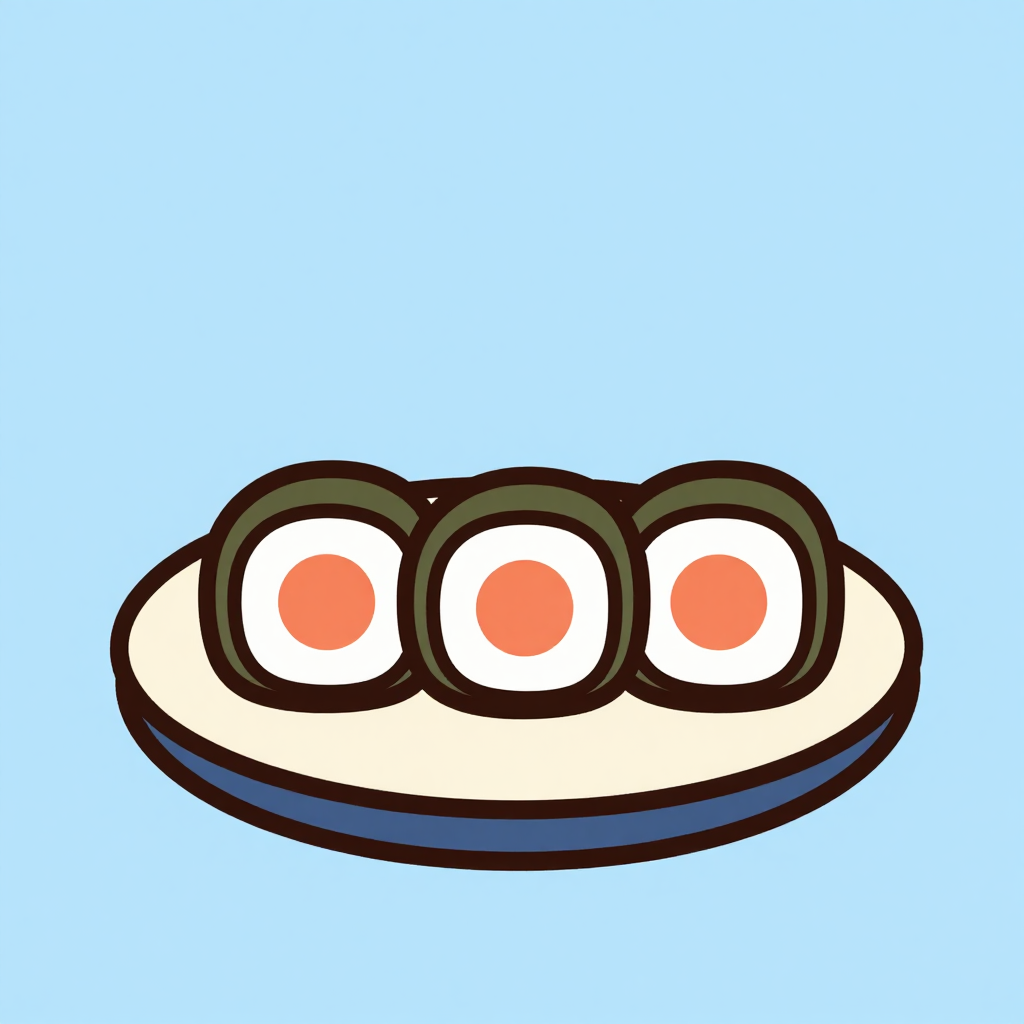
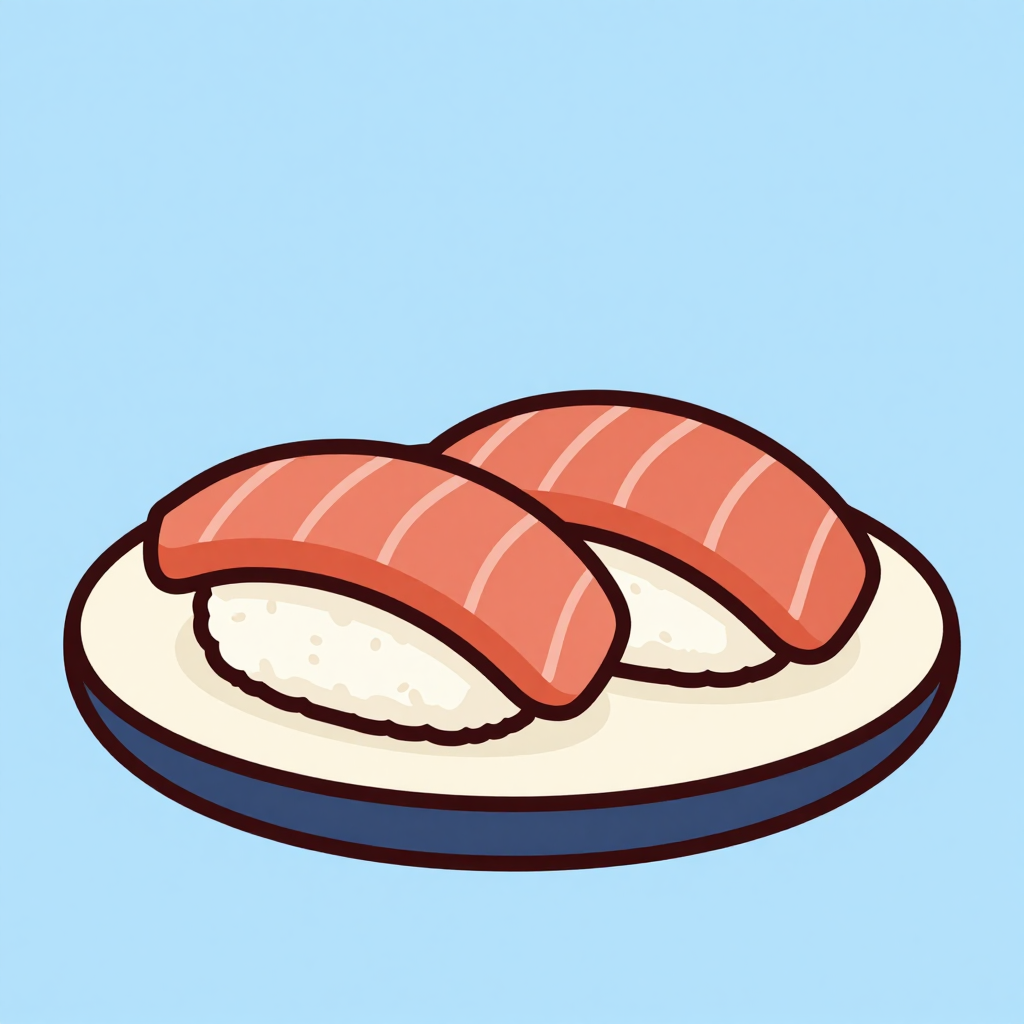
스시집 장면 그림을 참치 니기리 두 점(thumb-sushi-nigiri_303)으로 바꿈
- 후보 8장(두 점 301~304, 한 점 301~304) 모두 S6(참치 흰 줄)에 걸렸고,
  사용자가 직접 보고 303을 골랐다(2026-11-19). S6·S4는 이 그림에 한해 면제.
- source/thumb-sushi.png·json 교체, SceneThumb-sushi와 map_building_sushi 다시 내보냄.
- brief.md 5.2에 판정 결과와 후보별 판정 표, 5번 표, 변경 기록.

Changed region(s): [[0.0625, 0.375, 0.9375, 0.8438]]

diff --git a/docs/design/scene-art/brief.md b/docs/design/scene-art/brief.md
@@ -3,6 +3,7 @@
 앱 화면에서 장면 그림이 들어갈 자리, 각 그림의 규격과 이미지 생성 요청서, 후보를 고르는 기준을 모은 문서다. 리워드 아이템 16개(모자·두건·손·배경)는 보상 브랜치의 `item-art/brief.md` 몫이라 여기서 다루지 않는다.
 
 - 개정일: 2026-11-14. 흐름 개편안 B(PLAN.md 4번)의 새 8장면 기준으로 고쳤다. 이미 생성한 후보 가운데 다시 쓸 것과 새로 만들 2장(스시집, 소바·우동집)을 정했다
+- 2026-11-19: 스시집 그림을 니기리로 바꿔 다시 생성한다(5.2)
 
 | 파일 | 내용 |
 |---|---|
@@ -132,7 +133,7 @@
 {STYLE} {PALETTE} Subject: {대상} {OBJECT} {BACKGROUND}
 ```
 
-STYLE, PALETTE, OBJECT는 모든 그림에 한 글자도 바꾸지 않는다. BACKGROUND는 `{칸색}`만 바꾼다. 여러 장의 모양이 맞는 것은 이 고정에서 나온다.
+STYLE, PALETTE, OBJECT는 모든 그림에 한 글자도 바꾸지 않는다. BACKGROUND는 `{칸색}`만 바꾼다. 여러 장의 모양이 맞는 것은 이 고정에서 나온다. 예외는 `thumb-sushi` 하나로, PALETTE 자리에 PALETTE-SUSHI를 쓴다(5.2).
 
 **STYLE**
 
@@ -165,7 +166,7 @@ The background is one flat solid {칸색} color filling the entire square edge t
 | 순서 | 장면 id | 장면 | 파일 이름 | 대상 | 칸색 | 출처 | 할 일 |
 |---|---|---|---|---|---|---|---|
 | - | - | (대체 그림) | `thumb-placeholder` | 여행 가방 | SAND | 후보 `thumb-placeholder_301~304` | 고르기 |
-| 1 | `sushi` | 스시집 | `thumb-sushi` | 접시 위 호소마키 세 개 | SKY | **새로 생성** (5.2) | 생성 4장 → 고르기 |
+| 1 | `sushi` | 스시집 | `thumb-sushi` | 남색 테두리 접시 위 참치 니기리 두 점 (2026-11-19 호소마키에서 바꿈) | SKY | `thumb-sushi-nigiri_303` (2026-11-19 사용자 결정, 5.2 판정 결과) | 넣음 |
 | 2 | `tonkatsu` | 돈카츠집 | `thumb-tonkatsu` | 가츠동 | SAND | 후보 `thumb-eatery_sign_301~306` | 고르기 → 칸색 바꿔 칠하기(7.1) |
 | 3 | `soba` | 소바·우동집 | `thumb-soba` | 대발 위 자루소바와 장국 잔 | SKY | **새로 생성** (5.2) | 생성 4장 → 고르기 |
 | 4 | `station` | 역 | `thumb-station` | 정면 통근 전철 | SAND | 후보 `thumb-station_301~304` | 고르기 |
@@ -189,19 +190,91 @@ The background is one flat solid {칸색} color filling the entire square edge t
 | `thumb-onsen` | 7 온천 | `onsen` | `thumb-onsen` | SKY → SKY | |
 | `thumb-ryokan` | 8 료칸 | `ryokan` | `thumb-ryokan` | SAND → SAND | |
 | `thumb-placeholder` | 대체 그림 | (공통) | `thumb-placeholder` | SAND → SAND | |
-| (없음) | | `sushi` | `thumb-sushi` | SKY | 새로 생성 |
+| (없음) | | `sushi` | `thumb-sushi` | SKY | 새로 생성. 2026-11-19 니기리로 다시 생성(후보 이름 `thumb-sushi-nigiri`) |
 | (없음) | | `soba` | `thumb-soba` | SKY | 새로 생성 |
 
 ### 5.2 새로 만들 그림 2장
 
 대상을 고르는 기준(전과 같음): 그 장면의 단어에 나오는 물건이거나 장면을 가장 빨리 알아보게 하는 물건, 52pt에서 알아볼 것, 리워드 아이템과 겹치지 않을 것, 글자 없이도 뜻이 살 것. 이웃한 밥집 그림(가츠동 그릇)과 실루엣이 달라야 한다.
 
-**`thumb-sushi`** (1 스시집, 칸색 `pale sky blue`)
+**`thumb-sushi`** (1 스시집, 칸색 `pale sky blue`). 2026-11-19 호소마키에서 니기리로 바꿈(사용자 결정)
 
-- 대상: 둥근 접시(남색 테두리) 위에 세워 놓은 호소마키 세 개. 단면(김 고리, 흰 밥, 주황빨강 속)이 보이게.
-- 고른 이유: 리워드 손 아이템 `sushi`(초밥 한 점, 니기리)와 배경 아이템 `noren`(노렌이 걸린 가게 앞)을 피했다. 마키 단면은 니기리와 실루엣이 다르면서 52pt에서도 "초밥"으로 바로 읽힌다. 남색 테두리 접시는 회전초밥 접시를 떠올리게 해 메뉴 단계(회전초밥)와 이어진다. 가츠동(깊은 그릇, 김 줄기)과도 실루엣이 다르다(낮고 넓은 접시, 둥근 단면 셋).
-- 피한 것: 니기리(아이템과 겹침), 노렌(아이템과 겹침, 글자 자리), 회전 레일(물건이 둘이 되고 원근이 생김), 문어·오징어 그림(52pt에서 알아보기 어렵고 얼굴이 생기기 쉬움).
-- 안 될 때의 대체 대상: 같은 접시 위의 이쿠라 군함말이 두 개(김 띠 위에 주황 알). 문장은 아래 대상 문장의 rolls 부분만 바꾼다.
+쓰이는 크기: 홈 지도 건물 카드 96pt(지금 장면)와 72pt(잠김은 흑백, 완료는 원래 색). 완료 카드 양옆에 단어 스티커 `sushi`(게타 위 참치·달걀 니기리 두 점)와 `ika`(오징어 니기리 한 점)가 48pt로 붙는다(home-map.md 2.3). 옛 홈 행의 52pt에서도 읽혀야 한다.
+
+- 대상: 둥근 납작한 접시(흰 바탕, 굵은 남색 테두리) 위에 참치 니기리 두 점. 두 점은 똑같고, 둘 다 긴 쪽이 좌우로 놓여 왼쪽과 오른쪽에 나란히, 조금 떨어져 있다. 밥은 낮고 넓은 둥근 타원 덩이(흰색, 밥알 결 없음), 그 위에 주황빨강 참치 한 장이 밥보다 조금 길게 덮여 늘어진다. 참치 아래로 흰 밥이 띠처럼 분명히 보인다. 김 띠, 와사비, 생강, 간장 종지, 젓가락 없음. 보는 각도는 정면에서 살짝 위(접시가 납작한 타원으로 보이는 정도).
+- 개수를 두 점으로 한 이유: 한 접시 두 점은 회전초밥의 기본 모양이다. 셋이면 한 점이 작아져 72pt에서 밥 띠가 흐려지고, 하나면 접시가 비어 보여 "초밥 한 접시"보다 "알 수 없는 덩이"로 읽힐 수 있다(안 될 때의 대체 대상으로 둔다).
+- 네타를 참치로 한 이유: 붉은 생선 한 장 + 흰 밥이 초밥의 가장 흔한 그림이라 한국 사용자에게도 바로 "초밥"이다. 단색이라 줄무늬(연어), 꼬리(새우), 김 띠(달걀)가 필요 없어 작게 줄여도 모양이 무너지지 않는다. 연어는 흰 줄을 그리려다 선이 늘고, 줄이 없으면 참치와 구분되지 않는다.
+- 고른 이유: 호소마키 단면(김 고리 안의 흰 밥과 속)은 한국 사용자에게 김밥으로 읽혔다(사용자 의견, 2026-11-19). 니기리는 김밥과 모양이 겹치지 않는다. 옛 문서가 니기리를 피한 이유였던 리워드 손 아이템 `sushi`는 폐지됐다(item-art/items.json에 없음). 남색 테두리 접시는 회전초밥 접시로 메뉴 단계와 이어지고, 단어 스티커 `sushi`의 나무 게타와 받침이 달라 완료 카드 옆에 붙어도 같은 그림이 셋으로 보이지 않는다. 가츠동(깊은 그릇 + 김 줄기), 자루소바(네모 대발 + 잔), 야키토리(긴 네모 접시 + 꼬치)와 실루엣이 다르다(낮은 둥근 접시 위 둥근 덩이 둘).
+- 피한 것: 게타(단어 스티커 `sushi`와 같은 받침), 여러 종류 모둠(PALETTE 문제와 같이 색이 늘어 무지개가 된다), 군함말이(김 띠가 김밥을 다시 부른다), 노렌(아이템 `noren`과 겹침, 글자 자리), 회전 레일(물건이 둘이 되고 원근이 생김).
+
+**PALETTE 예외.** 이 그림만 4.2의 PALETTE 대신 아래 PALETTE-SUSHI를 쓴다. 공통 PALETTE는 색 이름 열 개를 늘어놓아, 같은 모양을 여러 개 그리는 대상에서는 점마다 다른 색(노랑 달걀, 분홍 네타, 올리브 덩이)을 칠하게 만든다. 단어 그림(`tools/gen_word_art.py`)과 리워드 아이템(`items.json`의 `palette`)에서 같은 문제가 기록돼 있다. 선 굵기와 화풍은 STYLE이 정하므로, STYLE·OBJECT·BACKGROUND는 그대로 두면 세트의 결이 유지된다.
+
+**PALETTE-SUSHI**
+
+```
+Colors: the object uses only warm off-white, soft orange red and dark indigo blue, plus the dark chocolate brown of the outlines. Both pieces have exactly the same colors. The orange red is warm, not crimson, not pink, not pure red.
+```
+
+**대상 문장**
+
+```
+Two pieces of tuna nigiri sushi on a small round flat plate, seen from the front and slightly above. The plate is warm off-white with a thick dark indigo rim. The two pieces sit next to each other, left and right, parallel and slightly apart, both lying lengthwise from left to right. Each piece is a low, wide, rounded oblong mound of plain smooth white rice with one flat slice of raw tuna in a single solid soft orange red draped over its top; the slice is a little longer than the rice, and a clear band of white rice shows below the slice along the whole piece. The two pieces are identical. The rest of the plate is empty, and nothing under the plate.
+```
+
+문장을 이렇게 쓴 이유(모델이 틀리기 쉬운 점):
+
+| 틀리기 쉬운 점 | 문장에서 막은 방법 |
+|---|---|
+| 네타가 밥을 다 덮어 흰 밥이 안 보인다 | "a clear band of white rice shows below the slice along the whole piece" |
+| 네타 색이 점마다 다르다, 무지개 | PALETTE-SUSHI(색 세 개), "single solid", "identical", "exactly the same colors" |
+| 참치에 흰 줄(지방, 연어)이 생긴다 | "a single solid soft orange red". 줄무늬를 금지어로 적지 않는다 |
+| 와사비, 생강, 간장 종지가 딸려 온다 | "The rest of the plate is empty". 이름을 적으면 오히려 그려 넣으므로(단어 그림 2차 배치) 이름을 쓰지 않는다 |
+| 김 띠, 원기둥 모양(김밥으로 읽힘) | "low, wide, rounded oblong mound", 참치(김 띠가 없는 네타). "seaweed", "roll"을 쓰지 않는다 |
+| 생선 모양, 얼굴 | "fish"를 쓰지 않고 "slice of raw tuna"로 쓴다. 얼굴은 OBJECT가 막는다 |
+| 밥알을 하나씩 그려 질감이 된다 | "plain smooth white rice" |
+| 접시 밑 비스듬한 그림자 | "seen from the front and slightly above", "nothing under the plate"(4.1) |
+| 빵처럼 보인다 | "loaf", "bun"을 쓰지 않는다 |
+
+- 안 될 때의 대체 대상(한 점): 4장 중 3장 이상에서 두 점이 서로 겹치거나 밥 띠가 72pt에서 안 보이면, 대상 문장만 아래로 바꿔 같은 시드로 다시 뽑는다(`--name thumb-sushi-nigiri1`).
+
+```
+One large piece of tuna nigiri sushi on a small round flat plate, seen from the front and slightly above. The plate is warm off-white with a thick dark indigo rim. The piece lies lengthwise from left to right across the middle of the plate: a low, wide, rounded oblong mound of plain smooth white rice with one flat slice of raw tuna in a single solid soft orange red draped over its top; the slice is a little longer than the rice, and a clear band of white rice shows below the slice along the whole piece. The rest of the plate is empty, and nothing under the plate.
+```
+
+**`thumb-sushi` 고르는 기준.** 6.3의 1~3(틀, 그림자·바닥, 글자)을 먼저 보고, 아래를 위에서부터 본다. 하나라도 걸리면 버린다. 줄인 크기는 1024px 원본을 LANCZOS로 줄여 본다: 96pt @3x 288px, 72pt @3x 216px, 52pt @3x 156px.
+
+| 순서 | 확인 | 탈락 조건 |
+|---|---|---|
+| S1 | 얼굴 | 밥이나 참치에 눈, 입, 볼이 있다. 참치가 혀처럼 밥 사이로 나와 입처럼 보인다 |
+| S2 | 김밥 | 원기둥, 둥근 단면, 김 고리, 검은 띠, 어두운 김 면이 있다. 72pt에서 "김밥"으로 읽힐 여지가 있다 |
+| S3 | 밥과 네타 | 216px에서 두 점 모두 참치 아래 흰 밥 띠가 보이지 않는다. 참치와 밥 사이 외곽선이 끊겨 한 덩이가 된다 |
+| S4 | 개수·모양 | 두 점이 아니다. 두 점의 크기, 모양, 색이 눈에 띄게 다르다. 두 점이 겹쳐 실루엣이 한 덩이가 된다 |
+| S5 | 접시 위 | 초밥 말고 다른 것(초록 덩이, 분홍 조각, 종지, 젓가락, 잎, 장식)이 있다. 접시가 사각, 나무 판, 게타다 |
+| S6 | 네타 색 | 참치에 흰 줄, 결, 광택 줄이 있다(연어나 베이컨처럼 보임). 색이 진홍이나 분홍(색상 330°~359°)이다. 노랑(달걀), 흰색(오징어) 등 참치 아닌 네타다 |
+| S7 | 다른 음식 | 72pt에서 빵, 케이크, 떡, 소시지, 베이컨으로 읽힌다 |
+| S8 | 흑백 | 채도 0으로 바꿔 216px로 봤을 때 참치, 밥, 접시, 남색 테두리가 구분되지 않는다 |
+| S9 | 이웃 | 96pt 카드로 가츠동(`thumb-tonkatsu`) 옆에, 72pt 카드로 단어 스티커 `sushi`·`ika`(48pt) 사이에 놓았을 때 같은 그림이 반복돼 보인다(게타처럼 보이는 받침, 같은 각도) |
+
+- 통과한 후보가 여럿이면: 216px에서 흰 밥 띠가 가장 또렷한 것 → 두 점 사이 틈이 분명한 것 → 남색 테두리가 고르게 둘러진 것 순으로 고른다.
+- 4장 중 3장 이상이 같은 이유로 걸리면 대상 문장 탓이다(6.3). S3이면 "a clear band of white rice"를 "a thick band of white rice, as tall as the slice"로, S5면 마지막 문장 앞에 "Only these two pieces are on the plate."를 더해 다시 뽑는다. S4(겹침)면 위의 한 점 문장으로 바꾼다. 같은 이유로 두 번 실패하면 PM에게 알린다.
+- 고른 뒤: `source/thumb-sushi.png`·`.json`(옛 마키 303)을 새 그림으로 바꿔 넣고, 7번 2~3단계와 home-map.md 6.1의 `map_building_sushi` 내보내기를 다시 한다.
+
+**판정 결과 (2026-11-19, developer).** 고른 후보: `thumb-sushi-nigiri_303`(두 점, 시드 303). 8장 모두 S6(참치의 흰 줄)에, 두 점 4장은 S4(겹침)에도 걸렸으나 사용자가 후보를 직접 보고 303을 골랐다("303으로 넣어"). S6·S4는 이 그림에 한해 사용자 결정으로 면제한다. 1차 4장 모두 겹침이라 5.2의 한 점 문장으로 같은 시드를 다시 뽑았고(`thumb-sushi-nigiri1`), 흰 줄이 같은 이유로 두 번 나와 생성을 멈췄다. 비교 시트: `build/scene-art/sushi-nigiri-round1.png`, `sushi-nigiri1-round2.png`(git 밖).
+
+| 후보 | 판정 |
+|---|---|
+| `thumb-sushi-nigiri_301` | S6 흰 줄, S4 왼쪽 참치가 오른쪽 점을 덮음 |
+| `thumb-sushi-nigiri_302` | S6, S4. 그림이 아래로 쏠림 |
+| `thumb-sushi-nigiri_303` | S6, S4. **사용자 결정으로 채택** |
+| `thumb-sushi-nigiri_304` | S6, S4. 남색 테두리가 가는 선으로만 남음 |
+| `thumb-sushi-nigiri1_301` | S6. 접시 밑 그림자(6.3의 2) |
+| `thumb-sushi-nigiri1_302` | S6. 접시 밑 그림자, 남색 테두리 없음 |
+| `thumb-sushi-nigiri1_303` | S6 |
+| `thumb-sushi-nigiri1_304` | S6(줄과 광택). 남색 테두리 없음 |
+
+8장 모두 S1·S2·S3·S7·S8은 통과(참치 색은 330°~359° 면이 0~0.1%). 8장 모두 밥에 밥알 점과 밥 밑의 옅은 그림자가 있다. S9: 72pt 카드에서 단어 스티커 `sushi`의 참치(흰 줄, 같은 각도)와 같은 그림이 되풀이돼 보인다. 받침(접시와 게타)만 다르다.
+
+옛 대상 문장(기록, 쓰지 않음). 2026-11-19 니기리로 바꿈. 호소마키 단면이 한국 사용자에게 김밥으로 읽혔다. 이 문장으로 만든 후보가 `thumb-sushi_301~304`, 그중 303이 2026-11-14에 골라졌다.
 
 ```
 A small round flat plate seen from the front and slightly above: a warm off-white plate with a thick dark indigo rim, and on it three round thin sushi rolls standing upright side by side so that their flat cut faces show. Each roll is a ring of very dark olive seaweed around white rice with a small soft orange red center. Nothing else on the plate and nothing under the plate.
@@ -273,8 +346,11 @@ A small rounded hard-shell travel suitcase standing upright, seen from the front
 `thumb-sushi`:
 
 ```bash
-.venv/bin/python tools/gen_image.py "Flat cartoon illustration with bold clean outlines. Every shape is outlined with one thick, uniform, dark chocolate brown line (#4A2219), about three percent of the image width, with rounded line ends and rounded joins, and every outline is fully closed. Flat solid color fills only: no gradients, no texture, no shading, no highlights, no shine, no reflections, no drop shadow. Soft, rounded, chunky shapes, simple and friendly. Colors: warm off-white, pale cream, dark indigo blue, pale sky blue, warm wood brown, warm yellow, soft orange red, soft pink, muted olive, and the dark chocolate brown of the outlines. No bright green, no emerald, no crimson, no magenta, no pure red, no neon colors. Subject: A small round flat plate seen from the front and slightly above: a warm off-white plate with a thick dark indigo rim, and on it three round thin sushi rolls standing upright side by side so that their flat cut faces show. Each roll is a ring of very dark olive seaweed around white rice with a small soft orange red center. Nothing else on the plate and nothing under the plate. Exactly one object, centered, filling about seventy percent of the square, with an even empty margin on all sides. Seen from the front or slightly above, with almost no perspective. A bold, simple silhouette that is still easy to recognize when shown very small. The object is not a character: it has no face, no eyes, no mouth, no blush. No people, no hands, no animals. No text, no letters, no numbers, no logos, no symbols on any surface; every label, sign and panel is completely plain. The background is one flat solid pale sky blue color filling the entire square edge to edge, and nothing else: no floor, no table, no horizon line, no ground shadow, no cast shadow, no border, no frame, no rounded-square frame, no white outline around the object, no vignette." --name thumb-sushi --out docs/design/scene-art/source/candidates --seed 301 --count 4
+.venv/bin/python tools/gen_image.py "Flat cartoon illustration with bold clean outlines. Every shape is outlined with one thick, uniform, dark chocolate brown line (#4A2219), about three percent of the image width, with rounded line ends and rounded joins, and every outline is fully closed. Flat solid color fills only: no gradients, no texture, no shading, no highlights, no shine, no reflections, no drop shadow. Soft, rounded, chunky shapes, simple and friendly. Colors: the object uses only warm off-white, soft orange red and dark indigo blue, plus the dark chocolate brown of the outlines. Both pieces have exactly the same colors. The orange red is warm, not crimson, not pink, not pure red. Subject: Two pieces of tuna nigiri sushi on a small round flat plate, seen from the front and slightly above. The plate is warm off-white with a thick dark indigo rim. The two pieces sit next to each other, left and right, parallel and slightly apart, both lying lengthwise from left to right. Each piece is a low, wide, rounded oblong mound of plain smooth white rice with one flat slice of raw tuna in a single solid soft orange red draped over its top; the slice is a little longer than the rice, and a clear band of white rice shows below the slice along the whole piece. The two pieces are identical. The rest of the plate is empty, and nothing under the plate. Exactly one object, centered, filling about seventy percent of the square, with an even empty margin on all sides. Seen from the front or slightly above, with almost no perspective. A bold, simple silhouette that is still easy to recognize when shown very small. The object is not a character: it has no face, no eyes, no mouth, no blush. No people, no hands, no animals. No text, no letters, no numbers, no logos, no symbols on any surface; every label, sign and panel is completely plain. The background is one flat solid pale sky blue color filling the entire square edge to edge, and nothing else: no floor, no table, no horizon line, no ground shadow, no cast shadow, no border, no frame, no rounded-square frame, no white outline around the object, no vignette." --name thumb-sushi-nigiri --out docs/design/scene-art/source/candidates --seed 301 --count 4
 ```
+
+- 2026-11-19 니기리 판이다. 옛 마키 후보(`thumb-sushi_301~304`)를 덮어쓰지 않도록 이름을 `thumb-sushi-nigiri`로 둔다. 고른 한 장만 `source/thumb-sushi.png`로 복사한다.
+- 한 점 대체 문장(5.2)으로 다시 뽑을 때는 `Subject:` 뒤 문장과 `--name thumb-sushi-nigiri1`을 바꾸고, PALETTE-SUSHI의 "Both pieces have exactly the same colors."는 빼고 뽑는다(남겨 두면 두 점을 다시 부른다).
 
 `thumb-soba`:
 
@@ -308,11 +384,11 @@ A small rounded hard-shell travel suitcase standing upright, seen from the front
 | 4 | 얼굴 | 물건에 눈, 입, 볼이 없다 |
 | 5 | 52pt | 156px로 줄여 무엇인지 알아보인다. 외곽선이 4px 이상으로 남는다 |
 | 6 | 외곽선 닫힘 | 물건 둘레가 끊긴 곳이 없다 |
-| 7 | 색 | 초록(125°~160°)이나 분홍빨강(330°~359°) 면이 10%를 넘지 않는다. 도리이와 마키 속이 진홍이 아니다 |
+| 7 | 색 | 초록(125°~160°)이나 분홍빨강(330°~359°) 면이 10%를 넘지 않는다. 도리이와 참치(스시집)가 진홍이 아니다 |
 | 8 | 광택 | 흰 광택 점이 156px에서 보이지 않는다(작은 점은 줄이면 사라져 허용) |
 | 9 | 세트 | 이미 고른 그림 옆에 놓았을 때 선 굵기, 밝기, 물건 크기가 같은 계열이다. 이웃한 행(1·2·3 밥집)끼리 실루엣이 다르다 |
 | 10 | 흑백 | 채도 0으로 바꿨을 때(잠김) 물건과 바탕이 구분된다. 소바의 회갈색 면과 대발이 흑백에서 한 덩어리가 되지 않는지 특히 본다 |
-| 11 | 일본 고증 | 도리이, 전철, 오케, 마키, 자루소바의 모양이 다른 나라 것과 섞이지 않았다 |
+| 11 | 일본 고증 | 도리이, 전철, 오케, 니기리, 자루소바의 모양이 다른 나라 것과 섞이지 않았다 |
 
 - 4장 중 3장 이상이 같은 이유로 걸리면 시드 탓이 아니라 문장 탓이다. STYLE·PALETTE·OBJECT·BACKGROUND는 그대로 두고 대상 문장만 고쳐 다시 뽑는다(이자카야 v2가 그 예).
 - 기존 후보 가운데 위 기준에 걸리지 않는 것: eatery_sign 302·303·305·306(303은 김 줄기가 회색이라 세트를 본다), station 304, shrine 301~304, onsen 302, ryokan 301~304, placeholder 302~304. 이자카야는 v2로 다시 뽑은 뒤 고른다. 이 목록은 비교 시트로 1차로 거른 것이고, 원본 확대 확인은 고를 때 한다.
@@ -323,7 +399,7 @@ A small rounded hard-shell travel suitcase standing upright, seen from the front
 
 | 그림 | 생성 | 예상 시간 |
 |---|---|---|
-| `thumb-sushi` | 4 | 15~20분 |
+| `thumb-sushi` (2026-11-19 니기리 판 `thumb-sushi-nigiri`) | 4 | 15~20분 |
 | `thumb-soba` | 4 | 15~20분 |
 | `thumb-izakaya` v2 (필요하면) | 4 | 15~20분 |
 | `thumb-tonkatsu`, `thumb-shrine` 칸색 다시 뽑기 (7.1에서 필요하면) | 각 1 (고른 시드) | 7~10분 |
@@ -365,3 +441,5 @@ A small rounded hard-shell travel suitcase standing upright, seen from the front
 - 2026-11-14: 최초 작성(개편 전 8장면 기준). 후보 38장 생성.
 - 2026-11-14: 흐름 개편안 B 반영. 장면 8개를 스시집, 돈카츠집, 소바·우동집, 역, 신사·축제, 이자카야, 온천, 료칸으로 바꾸고 칸색 순서를 다시 매겼다. 옛 후보 이름과 새 장면 id의 대응(5.1)을 적었다. 가츠동은 돈카츠집, 전철은 역, 도리이는 신사·축제로 쓰고, 자판기(거리)와 사탕 사과(축제)는 쓰지 않는다. 새로 만들 `thumb-sushi`(접시 위 호소마키)와 `thumb-soba`(자루소바)의 대상 문장과 명령을 더했다. 후보에서 본 문제(틀, 그림자, 선로)와 고르는 기준(6.2, 6.3), 칸색이 바뀐 두 장의 처리(7.1), 이자카야 v2 문장을 더했다.
 - 2026-11-14: 고른 그림을 source/thumb-{장면 id}.png로 복사(PM). sushi←thumb-sushi_303, tonkatsu←thumb-eatery_sign_305, soba←thumb-soba_301, station←thumb-station_304, shrine←thumb-shrine_304, izakaya←thumb-izakaya-v2_304(옅은 그림자 남음), onsen←thumb-onsen_302, ryokan←thumb-ryokan_304, placeholder←thumb-placeholder_302. 7번 2~3단계(칸색 칠하기, 에셋 카탈로그)는 developer
+- 2026-11-19: `thumb-sushi`를 호소마키에서 참치 니기리 두 점(남색 테두리 접시)으로 바꿨다(사용자 결정. 마키 단면이 김밥으로 읽힘). 5.2에 대상, 이유, PALETTE-SUSHI(이 그림만의 색 문장), 대상 문장, 한 점 대체 문장, 고르는 기준 S1~S9를 적고 옛 마키 문장은 기록으로 남겼다. 6.1 명령의 후보 이름을 `thumb-sushi-nigiri`로 바꿨다. 5번·5.1 표, 4.2 예외, 6.3의 7·11번, 6.4를 맞췄다.
+- 2026-11-19: 니기리 후보 8장(`thumb-sushi-nigiri_301~304`, 한 점 `thumb-sushi-nigiri1_301~304`)을 뽑았다. 모두 S6에 걸렸으나 사용자가 `thumb-sushi-nigiri_303`을 골라 `source/thumb-sushi.png`·`.json`으로 바꿔 넣고 `SceneThumb-sushi`, `map_building_sushi`를 다시 내보냈다(developer). 판정은 5.2 "판정 결과"
